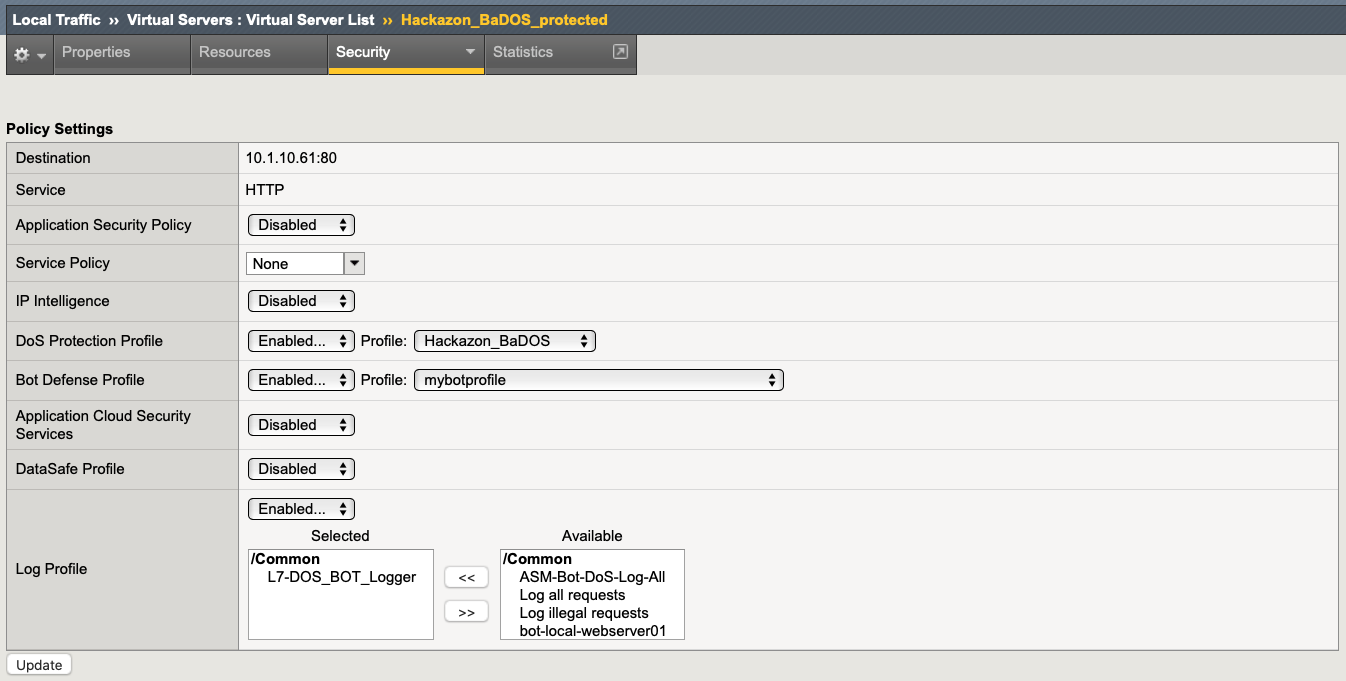
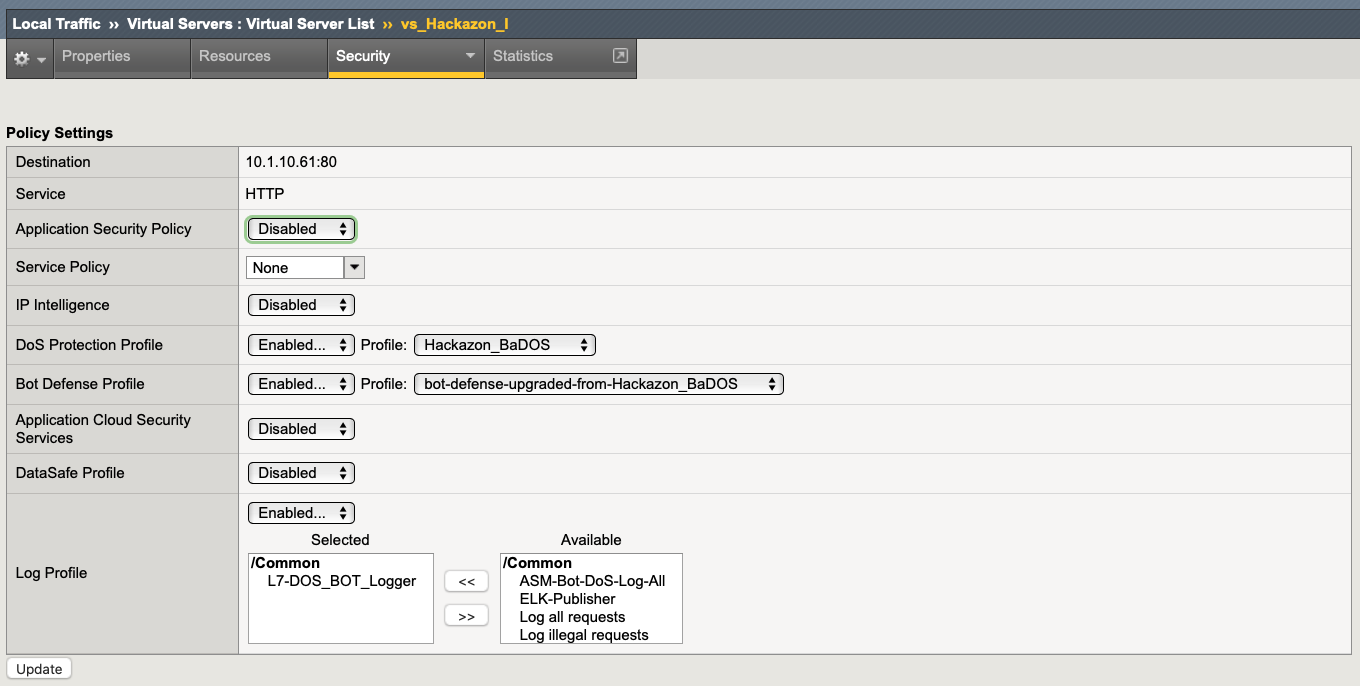
some corrections

diff --git a/source/class1/module2/module2.rst b/source/class1/module2/module2.rst
@@ -3,7 +3,7 @@ Module 2: Bot Detection Lab
 
 In this Lab we want to get familar with the Bot Detection Capabilities of AWAF. The goal is to create and apply a transparent Bot Defense Profile (signatures only) and enable logging for Bot requests.
 
-.. important :: To only focus on Bot Defense, we will use the "Hackazon_BaDOS_protected" virtual server for this, because there is no WAF policy attached to it. If you wanna use a different VS, please make sure that there is no WAF policy active.
+.. important :: To only focus on Bot Defense, we will use the "vs_Hackazon_I" virtual server for this, because there is no WAF policy attached to it. If you wanna use a different VS, please make sure that there is no WAF policy active.
 
 |
 
@@ -13,7 +13,7 @@ In this Lab we want to get familar with the Bot Detection Capabilities of AWAF. 
 Create Logging Profile
 *******************************
 
-.. note :: The **"Hackazon_BaDOS_protected"** already has a Logging Profile attached to it, which can be used for this demo. In case there is no Logging Profile attached or you want to create your own profile for this demo, use the steps described below. 
+.. note :: The **"vs_Hackazon_I"** virtual server already has a Logging Profile attached to it, which can be used for this demo. In case there is no Logging Profile attached or you want to create your own profile for this demo, use the steps described below. 
 
 #. Navigate to **Security > Event Logs > Logging Profiles** and create a new Logging Profile with the settings shown in the screenshot below (local publisher with all options enabled).
 #. Give it a name and click **create**.
@@ -23,6 +23,8 @@ Create Logging Profile
 |
 Create Bot Defense Profile
 *******************************
+
+.. note :: The **"vs_Hackazon_I"** virtual server already has a Bot Defense Profile attached to it, which can be used for this demo. In case there is no profile attached or you want to create your own for this demo, use the steps described below. 
 
 #. Navigate to **Security > Bot Defense > Bot Defense Profiles** and click **Create**.
 #. Choose a name (e.g. mybotprofile) and set the Enforcement mode to **transparent**. Review the **Bot Mitigation Settings** and **Signature Enforcement**, but leave all settings on default for now (We will cover more options in **Class 2 / Module 1**).
@@ -34,9 +36,9 @@ Create Bot Defense Profile
 Enable Bot Defense and Logging
 *************************************
 
-#. Navigate to **Local Traffic > Virtual Servers > Virtual Server List > Hackazon_BaDOS_protected**
+#. Navigate to **Local Traffic > Virtual Servers > Virtual Server List > vs_Hackazon_I**
 #. Click on the **Security** Tab and click **Policies**.
-#. Enable Bot Defense and Logging with the profiles created before.
+#. Enable Bot Defense and Logging with the profiles created before. (as mentioned before, you can use the preconfigured settings for this demo)
 #. Click **Update**
 
 .. note :: Make sure there is either the existing Logging Profile: **L7-DOS_BOT_Logger** or the **new created** Logging Profile attached to this VS. 
@@ -77,7 +79,7 @@ Start generating Traffic
 
    .. image:: ../pictures/module2/image06.png
 
-#. Navigate to **Security > Event Logs > Bet Defense > Bot Traffic** and review the Dashboard. Click on the Hackazon_BaDOS_protected VS to see more details for this specific Application.
+#. Navigate to **Security > Event Logs > Bet Defense > Bot Traffic** and review the Dashboard. Click on the "vs_Hackazon_I" VS to see more details for this specific Application.
 
    .. image:: ../pictures/module2/image07.png
     :width: 90%
@@ -96,7 +98,7 @@ Override settings and create execptions for specific bots
 
 .. note :: It may occur, that some Bots are detected as false positives and/or the false mitigation action will be applied. In this case, you can create exceptions to override the default settings per bot.
 
-#. Navigate to **Security > Bot Defense > Bot Defense Profiles** and click **on the profile** (either your own or the preconfigured DOS_BOT_Logger profile). 
+#. Navigate to **Security > Bot Defense > Bot Defense Profiles** and click **on the profile** (either your **own** or the preconfigured **bot-defense-upgraded-from-Hackazon_BaDOS** profile). 
 #. Click on **Bot Mitigation Setings**
 #. On the Bottom, click on **Add Exception** 
 
